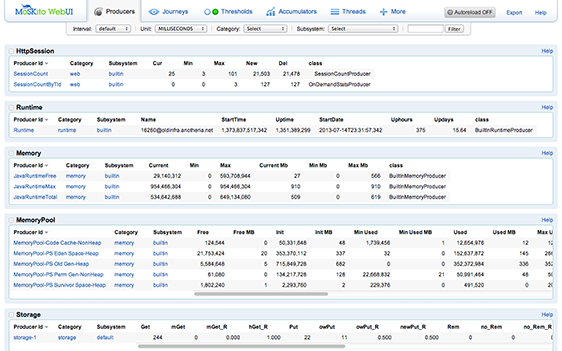
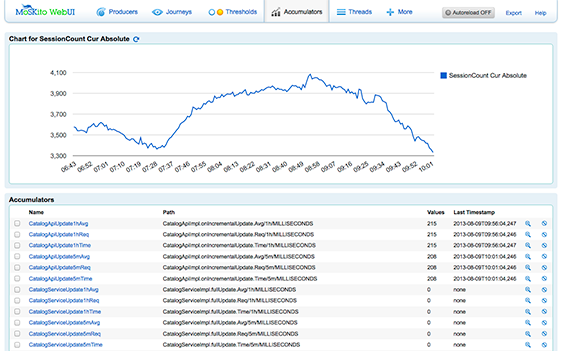
Moskito web screen presentation - added images

diff --git a/index.html b/index.html
@@ -120,6 +120,9 @@
                             <div id="carousel">
                                 <img src="static-int/img/moskito_scr.png" alt="MoSKito Monitoring"/>
                                 <img src="static-int/img/moskito_scr_2.png" alt="MoSKito Monitoring"/>
+                                <img src="static-int/img/moskito_scr_3.png" alt="MoSKito Monitoring"/>
+                                <img src="static-int/img/moskito_scr_4.png" alt="MoSKito Monitoring"/>
+                                <img src="static-int/img/moskito_scr_5.png" alt="MoSKito Monitoring"/>
                             </div>
                         </div>
                     </div>
